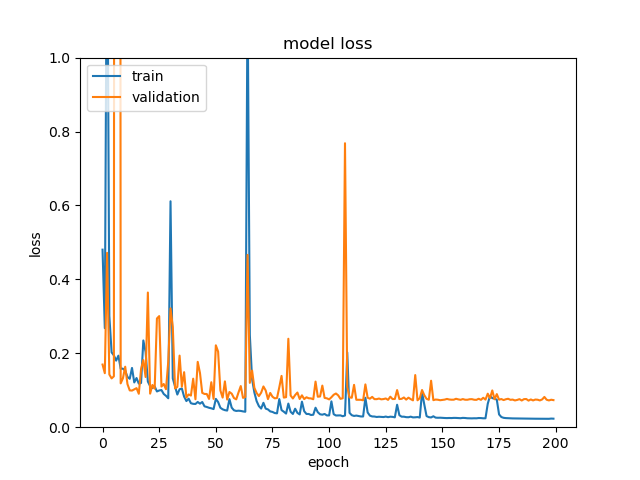
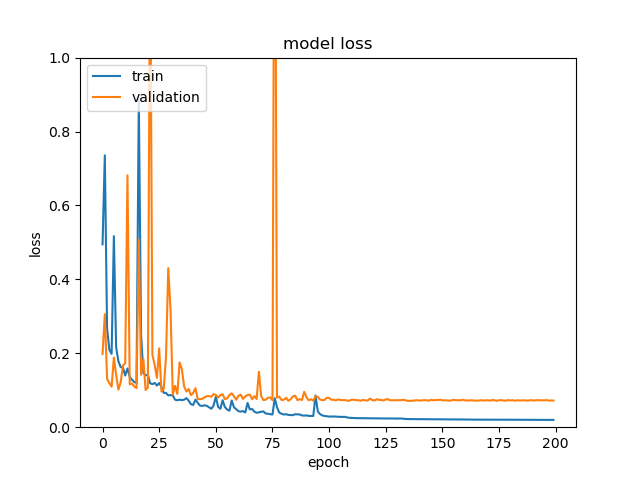
Different betas

Changed region(s): [[0.1562, 0.125, 0.875, 0.875]]

diff --git a/convTilesetMaker.py b/convTilesetMaker.py
@@ -16,7 +16,8 @@ import random
 randomGen = np.random.default_rng()
 
 p = {
-    'lambda': [0.00001, 0.000005, 0.000001],
+    'beta1': [0.5, 0.7, 0.8],
+    'beta2': [0.8, 0.9, 0.95, 0.99],
 }
 
 # Import images
@@ -87,49 +88,49 @@ def my_model(x_train, y_train, x_val, y_val, params):
 
     # A: 256 -> 128
     A = Conv2D(filter_size, (3, 3), strides=2, padding='same',
-        activity_regularizer=l2(params['lambda']))(input_img)
+        activity_regularizer=l2(1e-6))(input_img)
     A = LeakyReLU(alpha=0.2)(A)
     A = BatchNormalization(momentum=0.8)(A)
     A = Dropout(0.2)(A)
 
     # B: 128 -> 64
     B = Conv2D(filter_size*2, (3, 3), strides=2, padding='same',
-        activity_regularizer=l2(params['lambda']))(A)
+        activity_regularizer=l2(1e-6))(A)
     B = LeakyReLU(alpha=0.2)(B)
     B = BatchNormalization(momentum=0.8)(B)
     B = Dropout(0.2)(B)
 
     # C: 64 -> 32
     C = Conv2D(filter_size*2, (3, 3), strides=2, padding='same',
-        activity_regularizer=l2(params['lambda']))(B)
+        activity_regularizer=l2(1e-6))(B)
     C = LeakyReLU(alpha=0.2)(C)
     C = BatchNormalization(momentum=0.8)(C)
     #C = Dropout(0.2)(C) #
 
     # D: 32 -> 16
     D = Conv2D(filter_size*4, (3, 3), strides=2, padding='same',
-        activity_regularizer=l2(params['lambda']))(C)
+        activity_regularizer=l2(1e-6))(C)
     D = LeakyReLU(alpha=0.2)(D)
     D = BatchNormalization(momentum=0.8)(D)
     D = Dropout(0.2)(D)
 
     # E: 16 -> 8
     E = Conv2D(filter_size*4, (3, 3), strides=2, padding='same',
-        activity_regularizer=l2(params['lambda']))(D)
+        activity_regularizer=l2(1e-6))(D)
     E = LeakyReLU(alpha=0.2)(E)
     E = BatchNormalization(momentum=0.8)(E)
     E = Dropout(0.2)(E) #
 
     # F: 8 -> 4
     F = Conv2D(filter_size*4, (3, 3), strides=2, padding='same',
-        activity_regularizer=l2(params['lambda']))(E)
+        activity_regularizer=l2(1e-6))(E)
     F = LeakyReLU(alpha=0.2)(F)
     F = BatchNormalization(momentum=0.8)(F)
     #F = Dropout(0.2)(F)
 
     # G: 4 -> 2
     G = Conv2D(filter_size*4, (3, 3), strides=2, padding='same',
-        activity_regularizer=l2(params['lambda']))(F)
+        activity_regularizer=l2(1e-6))(F)
     G = LeakyReLU(alpha=0.2)(G)
     G = BatchNormalization(momentum=0.8)(G)
     G = Dropout(0.2)(G)
@@ -137,7 +138,7 @@ def my_model(x_train, y_train, x_val, y_val, params):
     # 2 -> 4
     #upG = concatenate([upscale, G])
     upG = Conv2DTranspose(filter_size*8, (3, 3), strides=2, padding='same',
-        activity_regularizer=l2(params['lambda']))(G)
+        activity_regularizer=l2(1e-6))(G)
     upG = LeakyReLU(alpha=0.2)(upG)
     upG = BatchNormalization(momentum=0.8)(upG)
     #upG = Dropout(0.2)(upG) #
@@ -145,7 +146,7 @@ def my_model(x_train, y_train, x_val, y_val, params):
     # 4 -> 8
     upF = concatenate([upG, F])
     upF = Conv2DTranspose(filter_size*4, (3, 3), strides=2, padding='same',
-        activity_regularizer=l2(params['lambda']))(upF)
+        activity_regularizer=l2(1e-6))(upF)
     upF = BatchNormalization(momentum=0.8)(upF)
     upF = Activation('relu')(upF)
     #upF = Dropout(0.2)(upF)
@@ -153,7 +154,7 @@ def my_model(x_train, y_train, x_val, y_val, params):
     # E: 8 -> 16
     upE = concatenate([upF, E])
     upE = Conv2DTranspose(filter_size*2, (3, 3), strides=2, padding='same',
-        activity_regularizer=l2(params['lambda']))(upE)
+        activity_regularizer=l2(1e-6))(upE)
     upE = BatchNormalization(momentum=0.8)(upE)
     upE = Activation('relu')(upE)
     #upE = Dropout(0.2)(upE) #
@@ -161,13 +162,13 @@ def my_model(x_train, y_train, x_val, y_val, params):
     # C: 16 -> 48
     upD = concatenate([upE, D])
     upD = Conv2DTranspose(3, (3, 3), strides=3, padding='same',
-        activity_regularizer=l2(params['lambda']))(upD)
+        activity_regularizer=l2(1e-6))(upD)
     upD = Activation('sigmoid')(upD)
 
     model = Model(input_img, upD)
     model.summary()
 
-    opt = Adam(beta_1=0.5)
+    opt = Adam(beta_1=params['beta1'], beta_2=params['beta2'])
     model.compile(optimizer=opt, loss='mse')#, metrics=['accuracy'])
     # fits the model on batches with real-time data augmentation:
     #es = EarlyStopping(monitor='val_loss', min_delta=0, patience=15, verbose=0, mode='auto')
@@ -180,7 +181,7 @@ def my_model(x_train, y_train, x_val, y_val, params):
                     epochs=200,
                     verbose = 1, callbacks=[reduce_lr])
 
-    model.save('tilesetmaker-' + "after" + str(params['lambda']) + '.h5')
+    model.save('tilesetmaker-' + "after" + str(params['beta1']) + " " + str(params['beta2']) + '.h5')
 
     #  "Loss"
     plt.plot(out.history['loss'])
@@ -190,7 +191,7 @@ def my_model(x_train, y_train, x_val, y_val, params):
     plt.gca().set_ylim([0,1])
     plt.xlabel('epoch')
     plt.legend(['train', 'validation'], loc='upper left')
-    plt.savefig("metrics/loss-after %s.png" % (str(params['lambda'])))
+    plt.savefig("metrics/loss-after %s.png" % (str(params['beta1']*100) + " " + str(params['beta2']*100) ))
     plt.clf()
     
     #_, axs = plt.subplots(10, 2)
@@ -217,4 +218,4 @@ talos.Scan(x_train, y_train, p, my_model, x_val=x_validation, y_val=y_validation
 # decreasing filter size MORE
 # GAN?
 # ReduceLROnPlateau when val_loss plateaus to go from macro learning to fine-tuning what validation error plateaus
-#               (Less patience, lower plateau rate, etc?)
+#               (Less patience, lower plateau factor, etc?)

diff --git a/convTilesetTester.py b/convTilesetTester.py
@@ -36,13 +36,24 @@ model3 = load_model('tilesetmaker-before5e-06.h5')
 model4 = load_model('tilesetmaker-before1e-06.h5')
 
 #model5 = load_model('tilesetmaker-noDropout0.0001.h5')
-model6 = load_model('tilesetmaker-after1e-05.h5')
-model7 = load_model('tilesetmaker-after5e-06.h5')
-model8 = load_model('tilesetmaker-after1e-06.h5')
+model6 = load_model('tilesetmaker-after0.8 0.99.h5')
+model7 = load_model('tilesetmaker-after0.8 0.95.h5')
+model8 = load_model('tilesetmaker-after0.8 0.9.h5')
+model9 = load_model('tilesetmaker-after0.8 0.8.h5')
+
+model10 = load_model('tilesetmaker-after0.7 0.99.h5')
+model11 = load_model('tilesetmaker-after0.7 0.95.h5')
+model12 = load_model('tilesetmaker-after0.7 0.9.h5')
+model13 = load_model('tilesetmaker-after0.7 0.8.h5')
+
+model14 = load_model('tilesetmaker-after0.5 0.99.h5')
+model15 = load_model('tilesetmaker-after0.5 0.95.h5')
+model16 = load_model('tilesetmaker-after0.5 0.9.h5')
+model17 = load_model('tilesetmaker-after0.5 0.8.h5')
 
 for i in range(10):
     imgInd = random.randint(0, len(x_train)-1)
-    _, axs = plt.subplots(3, 4)
+    _, axs = plt.subplots(5, 5)
     axs[0, 1].imshow(x_train[imgInd])#, cmap='gray')
     axs[0, 2].imshow(y_train[imgInd])#, cmap='gray')
     img_rgb = np.expand_dims(x_train[imgInd], axis=0)  # expand dimension
@@ -54,12 +65,31 @@ for i in range(10):
     axs[1, 1].imshow(img_rgb2[0])#, cmap='gray')
     axs[1, 2].imshow(img_rgb3[0])#, cmap='gray')
     axs[1, 3].imshow(img_rgb4[0])#, cmap='gray')
-    #img_rgb1 = model5.predict(img_rgb)
+    
     img_rgb2 = model6.predict(img_rgb)
     img_rgb3 = model7.predict(img_rgb)
     img_rgb4 = model8.predict(img_rgb)
-    #axs[2, 0].imshow(img_rgb1[0])#, cmap='gray')
+    img_rgb5 = model9.predict(img_rgb)
     axs[2, 1].imshow(img_rgb2[0])#, cmap='gray')
     axs[2, 2].imshow(img_rgb3[0])#, cmap='gray')
     axs[2, 3].imshow(img_rgb4[0])#, cmap='gray')
+    axs[2, 4].imshow(img_rgb5[0])#, cmap='gray')
+    
+    img_rgb2 = model10.predict(img_rgb)
+    img_rgb3 = model11.predict(img_rgb)
+    img_rgb4 = model12.predict(img_rgb)
+    img_rgb5 = model13.predict(img_rgb)
+    axs[3, 1].imshow(img_rgb2[0])#, cmap='gray')
+    axs[3, 2].imshow(img_rgb3[0])#, cmap='gray')
+    axs[3, 3].imshow(img_rgb4[0])#, cmap='gray')
+    axs[3, 4].imshow(img_rgb5[0])#, cmap='gray')
+    
+    img_rgb2 = model14.predict(img_rgb)
+    img_rgb3 = model15.predict(img_rgb)
+    img_rgb4 = model16.predict(img_rgb)
+    img_rgb5 = model17.predict(img_rgb)
+    axs[4, 1].imshow(img_rgb2[0])#, cmap='gray')
+    axs[4, 2].imshow(img_rgb3[0])#, cmap='gray')
+    axs[4, 3].imshow(img_rgb4[0])#, cmap='gray')
+    axs[4, 4].imshow(img_rgb5[0])#, cmap='gray')
     plt.show()

diff --git a/convTilesetUser.py b/convTilesetUser.py
@@ -15,12 +15,23 @@ model2 = load_model('tilesetmaker-before1e-05.h5')
 model3 = load_model('tilesetmaker-before5e-06.h5')
 model4 = load_model('tilesetmaker-before1e-06.h5')
 
-model5 = load_model('tilesetmaker-after1e-05.h5')
-model6 = load_model('tilesetmaker-after5e-06.h5')
-model7 = load_model('tilesetmaker-after1e-06.h5')
+model5 = load_model('tilesetmaker-after0.8 0.99.h5')
+model6 = load_model('tilesetmaker-after0.8 0.95.h5')
+model7 = load_model('tilesetmaker-after0.8 0.9.h5')
+model8 = load_model('tilesetmaker-after0.8 0.8.h5')
+
+model9 = load_model('tilesetmaker-after0.7 0.99.h5')
+model10 = load_model('tilesetmaker-after0.7 0.95.h5')
+model11 = load_model('tilesetmaker-after0.7 0.9.h5')
+model12 = load_model('tilesetmaker-after0.7 0.8.h5')
+
+model13 = load_model('tilesetmaker-after0.5 0.99.h5')
+model14 = load_model('tilesetmaker-after0.5 0.95.h5')
+model15 = load_model('tilesetmaker-after0.5 0.9.h5')
+model16 = load_model('tilesetmaker-after0.5 0.8.h5')
 
 def testImage(filenames):
-    _, axs = plt.subplots(len(filenames), 8)
+    _, axs = plt.subplots(len(filenames), 17)
     for i in range(len(filenames)):
         filename = filenames[i]
         image = Image.open(filename).convert('RGB')
@@ -32,6 +43,15 @@ def testImage(filenames):
         output5 = model5.predict(np.expand_dims(data, axis=0))
         output6 = model6.predict(np.expand_dims(data, axis=0))
         output7 = model7.predict(np.expand_dims(data, axis=0))
+        output8 = model8.predict(np.expand_dims(data, axis=0))
+        output9 = model9.predict(np.expand_dims(data, axis=0))
+        output10 = model10.predict(np.expand_dims(data, axis=0))
+        output11 = model11.predict(np.expand_dims(data, axis=0))
+        output12 = model12.predict(np.expand_dims(data, axis=0))
+        output13 = model13.predict(np.expand_dims(data, axis=0))
+        output14 = model14.predict(np.expand_dims(data, axis=0))
+        output15 = model15.predict(np.expand_dims(data, axis=0))
+        output16 = model16.predict(np.expand_dims(data, axis=0))
         
         axs[i, 0].imshow(data)
         axs[i, 1].imshow(output2[0])
@@ -40,6 +60,15 @@ def testImage(filenames):
         axs[i, 5].imshow(output5[0])
         axs[i, 6].imshow(output6[0])
         axs[i, 7].imshow(output7[0])
+        axs[i, 8].imshow(output8[0])
+        axs[i, 9].imshow(output9[0])
+        axs[i, 10].imshow(output10[0])
+        axs[i, 11].imshow(output11[0])
+        axs[i, 12].imshow(output12[0])
+        axs[i, 13].imshow(output13[0])
+        axs[i, 14].imshow(output14[0])
+        axs[i, 15].imshow(output15[0])
+        axs[i, 16].imshow(output16[0])
     plt.show()
 
 
